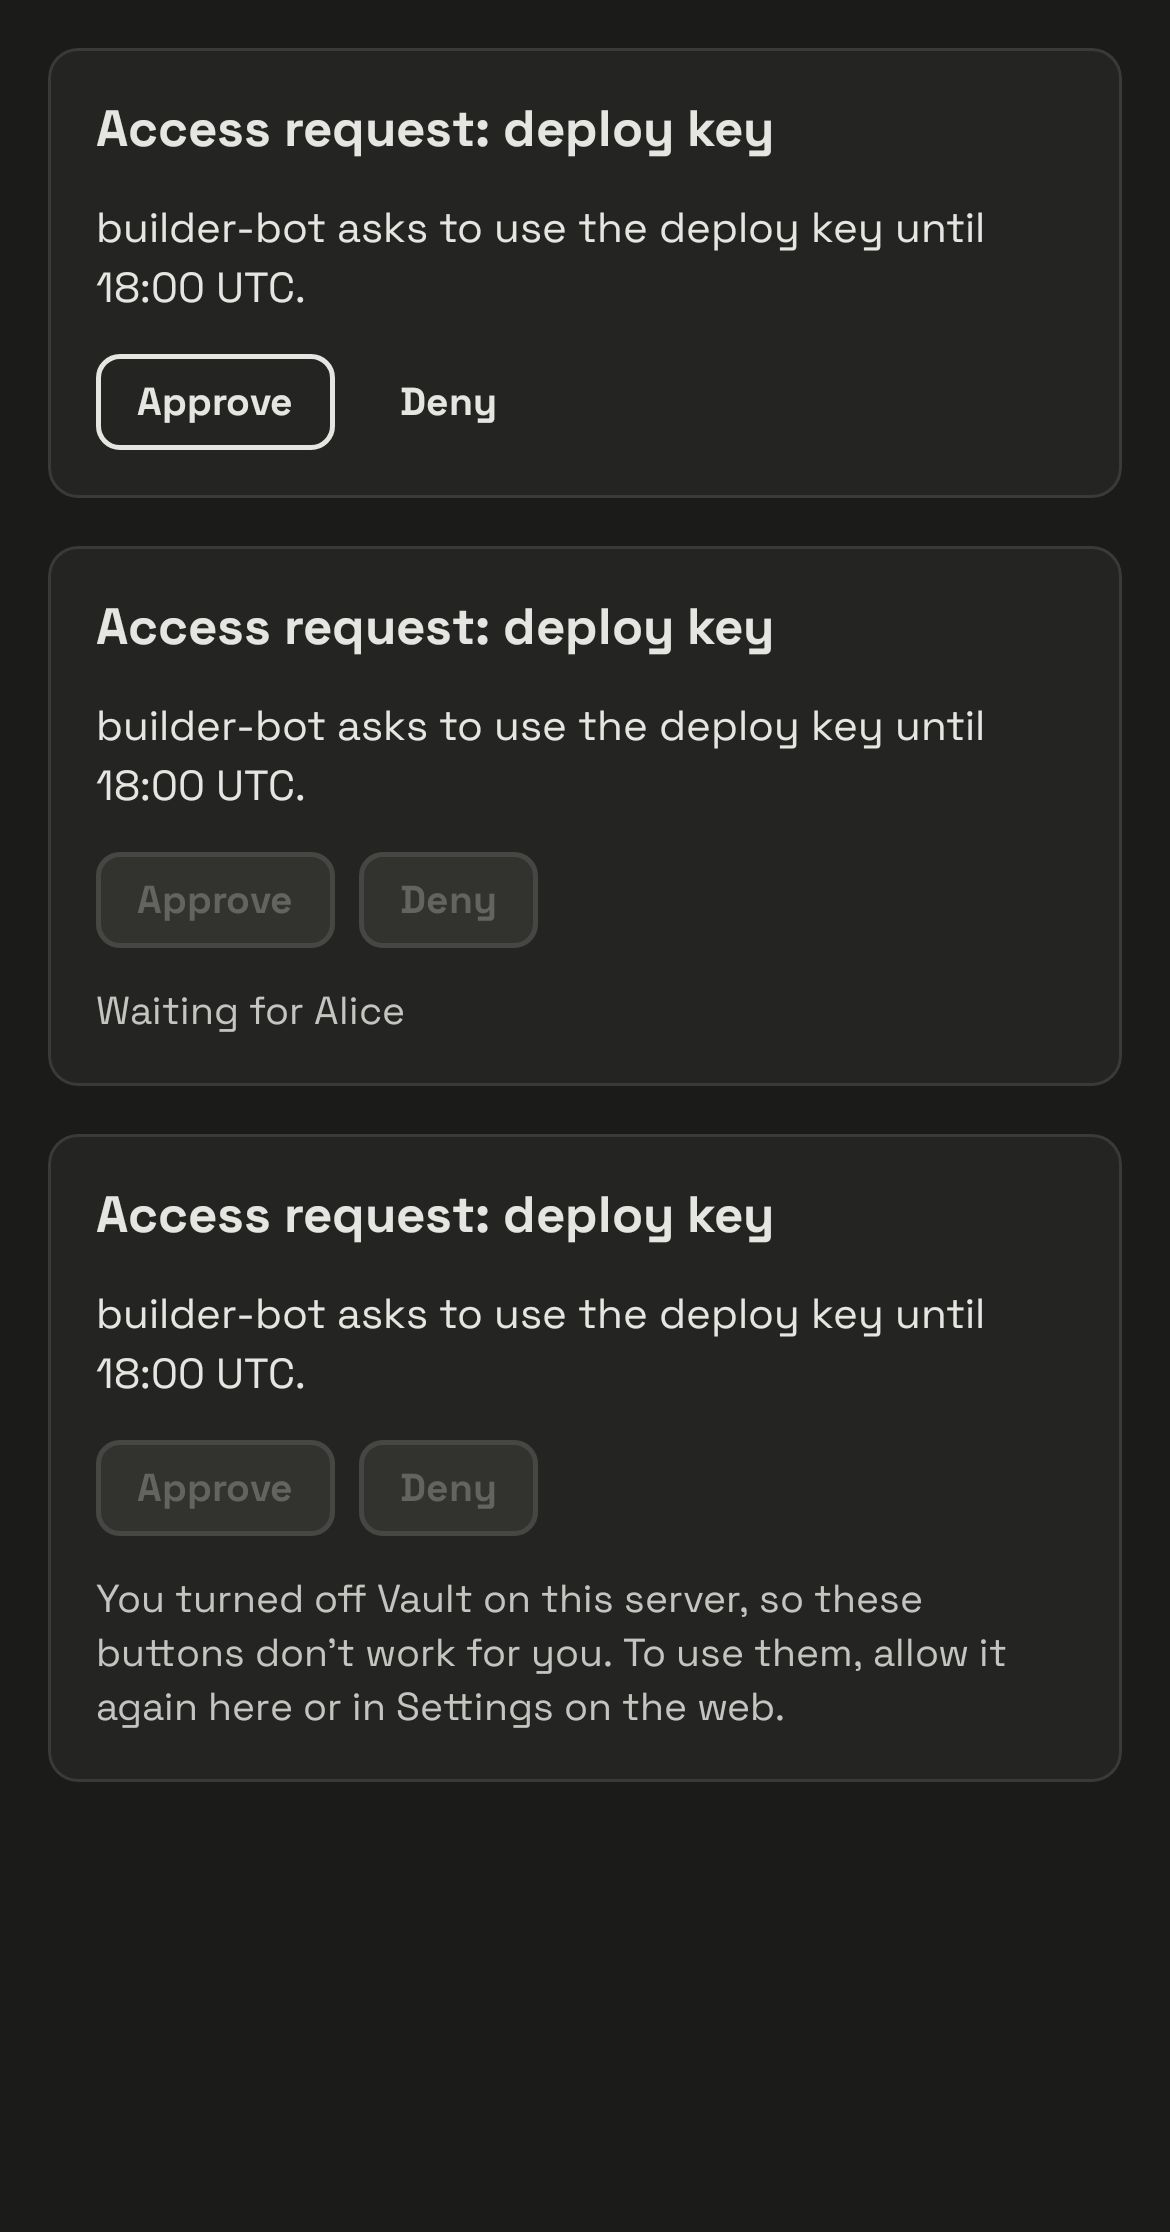
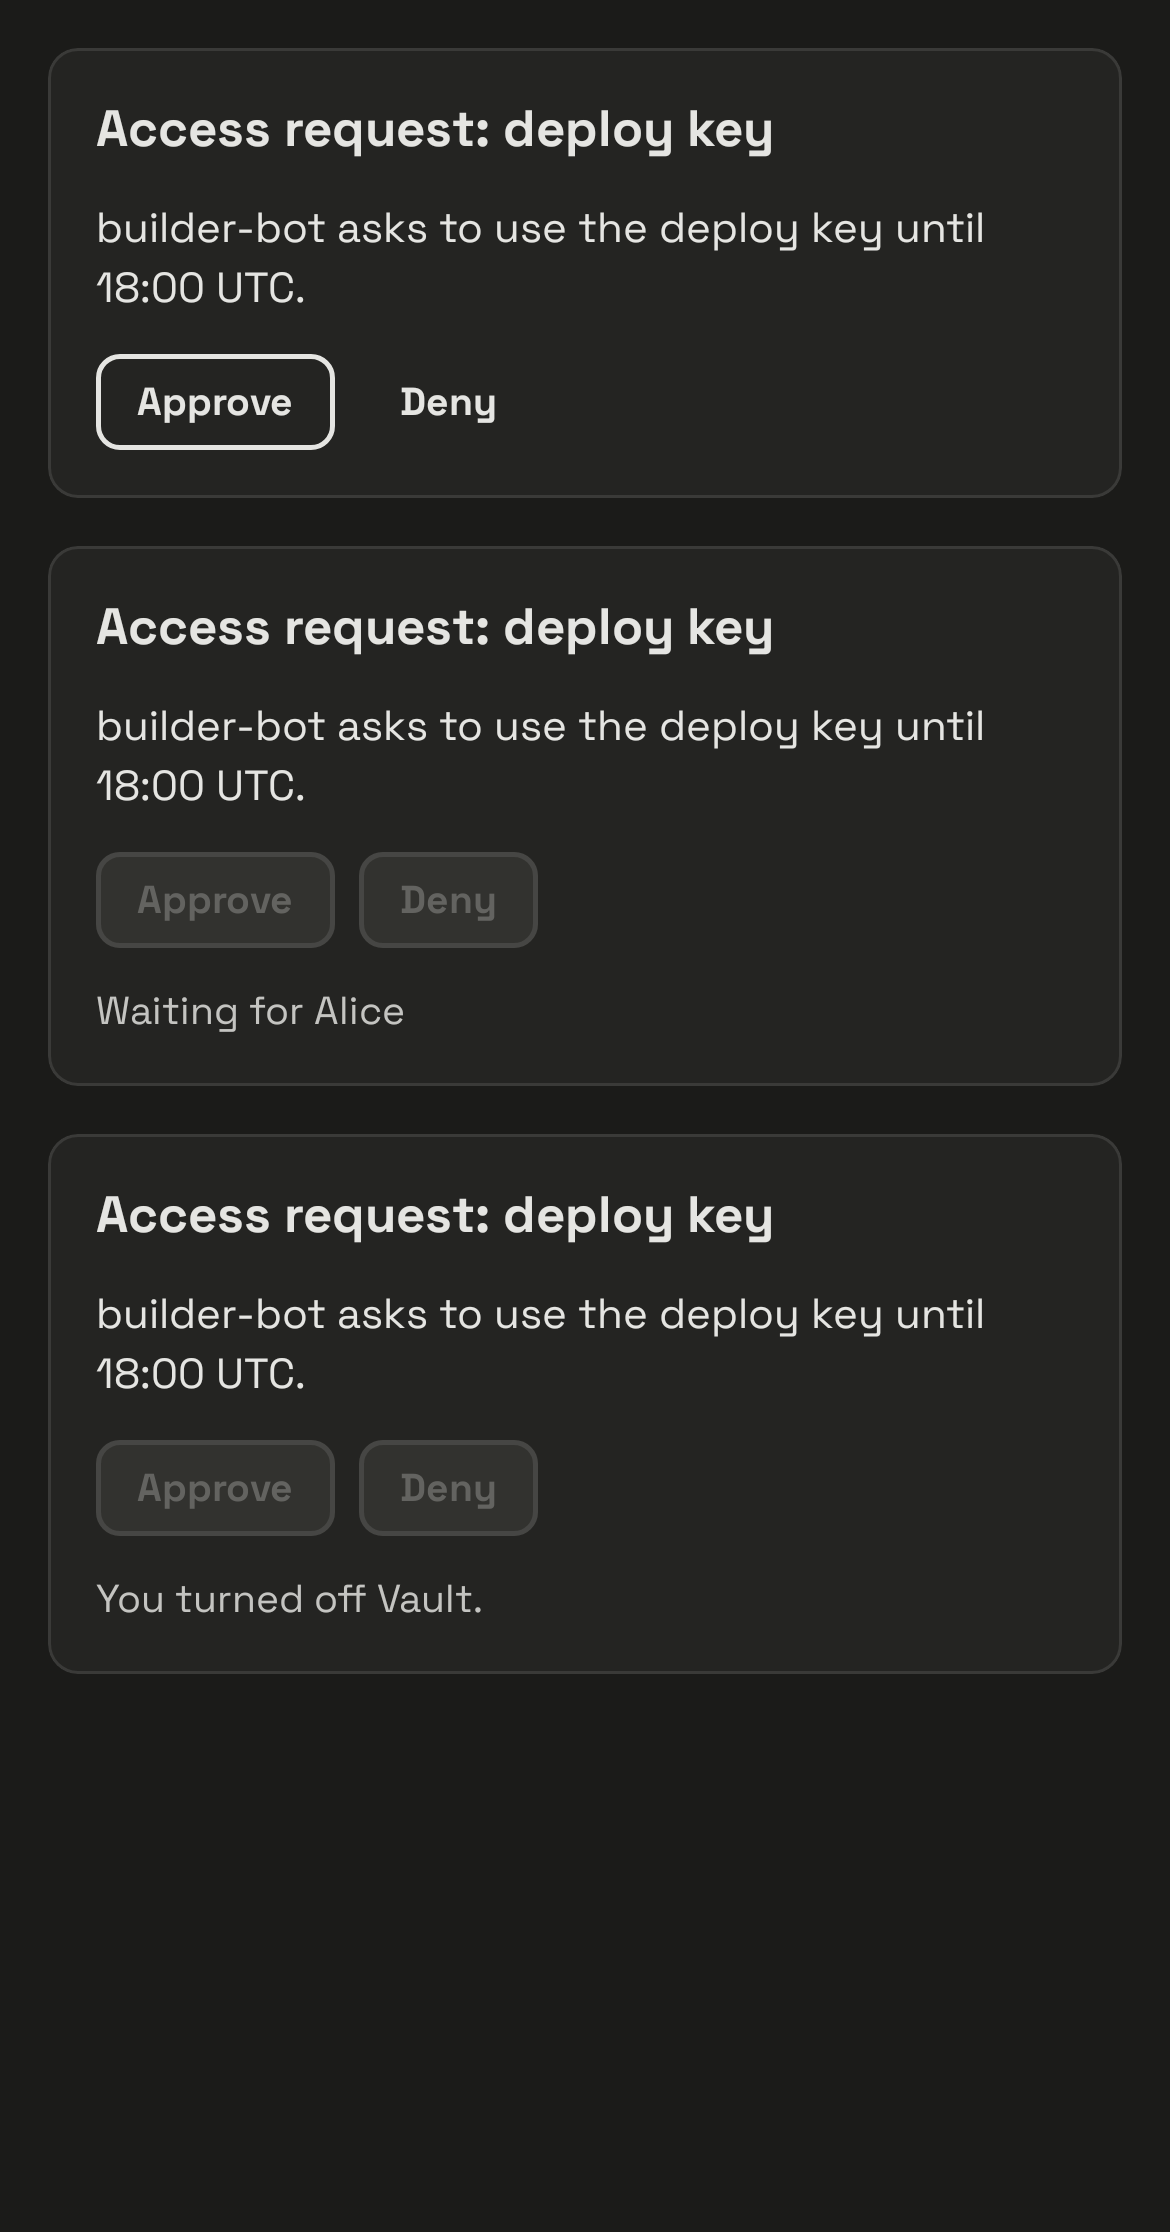
test(chat): re-recorded acting card goldens (final copy); no new tests per owner rule

Changed region(s): [[0.0923, 0.711, 0.8, 0.7728]]

diff --git a/compose/shared/src/commonTest/kotlin/build/raft/app/data/SharedAppLinkPreviewStoreMessageCardTest.kt b/compose/shared/src/commonTest/kotlin/build/raft/app/data/SharedAppLinkPreviewStoreMessageCardTest.kt
@@ -5,7 +5,6 @@ import kotlinx.coroutines.test.StandardTestDispatcher
 import kotlinx.coroutines.test.TestScope
 import kotlinx.coroutines.test.runCurrent
 import kotlinx.coroutines.test.runTest
-import kotlinx.coroutines.launch
 import kotlin.test.Test
 import kotlin.test.assertEquals
 import kotlin.test.assertFalse
@@ -93,49 +92,4 @@ class SharedAppLinkPreviewStoreMessageCardTest {
         assertFalse(store.readMessageCard(CViewer, CServer, CMessage, view, "en"))
         assertEquals(RaftMessageCardConsent.Declined, store.live()?.consent)
     }
-
-    @Test
-    fun aRowComposedAgainReusesTheCurrentAnswerAndAPressOrAnAllowReadsAgain() = runTest(StandardTestDispatcher()) {
-        val needed =
-            HomeNetworkResponse(
-                200,
-                messageCardReadBody(
-                    """{"card_revision":"1","actions":[],"consent":"needed","app":$MessageCardActingApp}""",
-                    prompts = """[{"url":"$MessageCardActingPage","app":$MessageCardActingApp}]""",
-                ),
-            )
-        val granted = HomeNetworkResponse(200, messageCardReadBody("""{"card_revision":"1","app":$MessageCardActingApp,"actions":${handles("t-1")}}"""))
-        val api = FakeAppLinkPreviewApi().apply { cardReadResponses += listOf(needed, granted, granted, granted) }
-        val store = store(api)
-        assertTrue(store.readMessageCard(CViewer, CServer, CMessage, AppLinkCardView.create(), "en", cardRevision = "1"))
-        // Scrolled away and back: a new view, the same revision, nothing changed for the App: no request.
-        assertTrue(store.readMessageCard(CViewer, CServer, CMessage, AppLinkCardView.create(), "en", cardRevision = "1"))
-        assertEquals(1, api.cardReads.size)
-        // Allowing moves the App's epoch: the same read now goes out.
-        store.allow(CViewer, CServer, AppLinkPromptApp("client-vault", "Vault", null)).await()
-        assertTrue(store.readMessageCard(CViewer, CServer, CMessage, AppLinkCardView.create(), "en", cardRevision = "1"))
-        assertEquals(2, api.cardReads.size)
-        assertEquals(2, store.live()?.handles?.size)
-        // A new revision of the card is read; a press reads again whatever is held.
-        assertTrue(store.readMessageCard(CViewer, CServer, CMessage, AppLinkCardView.create(), "en", cardRevision = "2"))
-        assertTrue(store.readMessageCard(CViewer, CServer, CMessage, AppLinkCardView.create(), "en", cardRevision = "1", force = true))
-        assertEquals(4, api.cardReads.size)
-    }
-
-    @Test
-    fun aReadOnItsWayIsNotSentTwice() = runTest(StandardTestDispatcher()) {
-        val gate = kotlinx.coroutines.CompletableDeferred<Unit>()
-        val api = FakeAppLinkPreviewApi().apply { readGate = gate }
-        val store = store(api)
-        val first = backgroundScope.launchRead(store)
-        runCurrent()
-        assertTrue(store.readMessageCard(CViewer, CServer, CMessage, AppLinkCardView.create(), "en", cardRevision = "1"))
-        assertEquals(1, api.cardReads.size)
-        gate.complete(Unit)
-        runCurrent()
-        assertTrue(first.isCompleted)
-    }
-
-    private fun kotlinx.coroutines.CoroutineScope.launchRead(store: SharedAppLinkPreviewStore) =
-        launch { store.readMessageCard(CViewer, CServer, CMessage, AppLinkCardView.create(), "en", cardRevision = "1") }
 }
